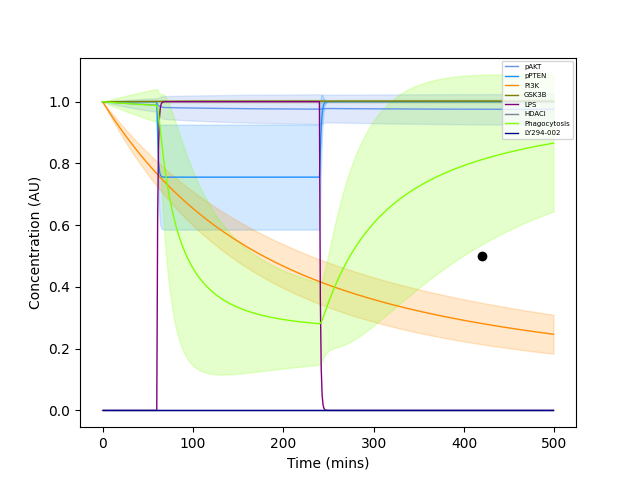
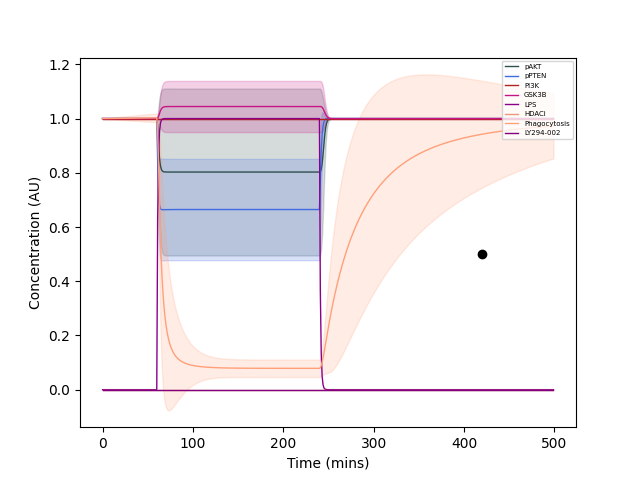
updated parameter fitting

diff --git a/src/network.py b/src/network.py
@@ -297,10 +297,19 @@ class Network:
     def fit(self, data, time, arguments, number=1, normalize=False, obj_calc=None, mlp=1):
         bounds, bound_types, names = self.get_bounds_information()
         substrate_names = list(self.substrates.keys())
+        y0s = []
+        for _ in tqdm(range(number),desc="Generating Random Initial",total=number, disable=True):
+            y0 = []
+            for i, s in enumerate(self.substrates.values()):
+                if s.type == "stimulus":
+                    y0.append(0.0)
+                else:
+                    y0.append(2**np.random.randn())
+            y0s.append(y0)
         def loss(X):
             self.set_parameters(X, names)
             cost = 0
-            predictions = self.graph_distributions(time, number, normalize=normalize, path=None, verbose=False)
+            predictions = self.graph_distributions(time, number, initials=y0s, normalize=normalize, path=None, verbose=False)
             for substrate_id, substrate_data in data.items():
                 for time_point, truth in substrate_data.items():
                     prediction = predictions[int(time_point), substrate_names.index(substrate_id)]

diff --git a/testing_atp.py b/testing_atp.py
@@ -47,4 +47,4 @@ if __name__ == "__main__":
         network.set_parameters(list(parameters.values()), list(parameters.keys()))
 
     # check post-training training error
-    mean_y, f = network.graph_distributions(time, args.number, substrates_to_plot=["PI3K", "pAKT", "pPTEN", "Phagocytosis", "LPS", "HDACi", "GSK3B", "LY294-002"], normalize=True, path=os.path.join(args.output, "figure_atp.png"), output_figure=True)
+    mean_y, f = network.graph_distributions(time, args.number, substrates_to_plot=["P2Y12act", "P2Y12s", "Gio", "PI3K", "PI3Ks", "LPS", "HDACi", "LY294-002", "ATP"], normalize=True, path=os.path.join(args.output, "figure_atp.png"), output_figure=True)
